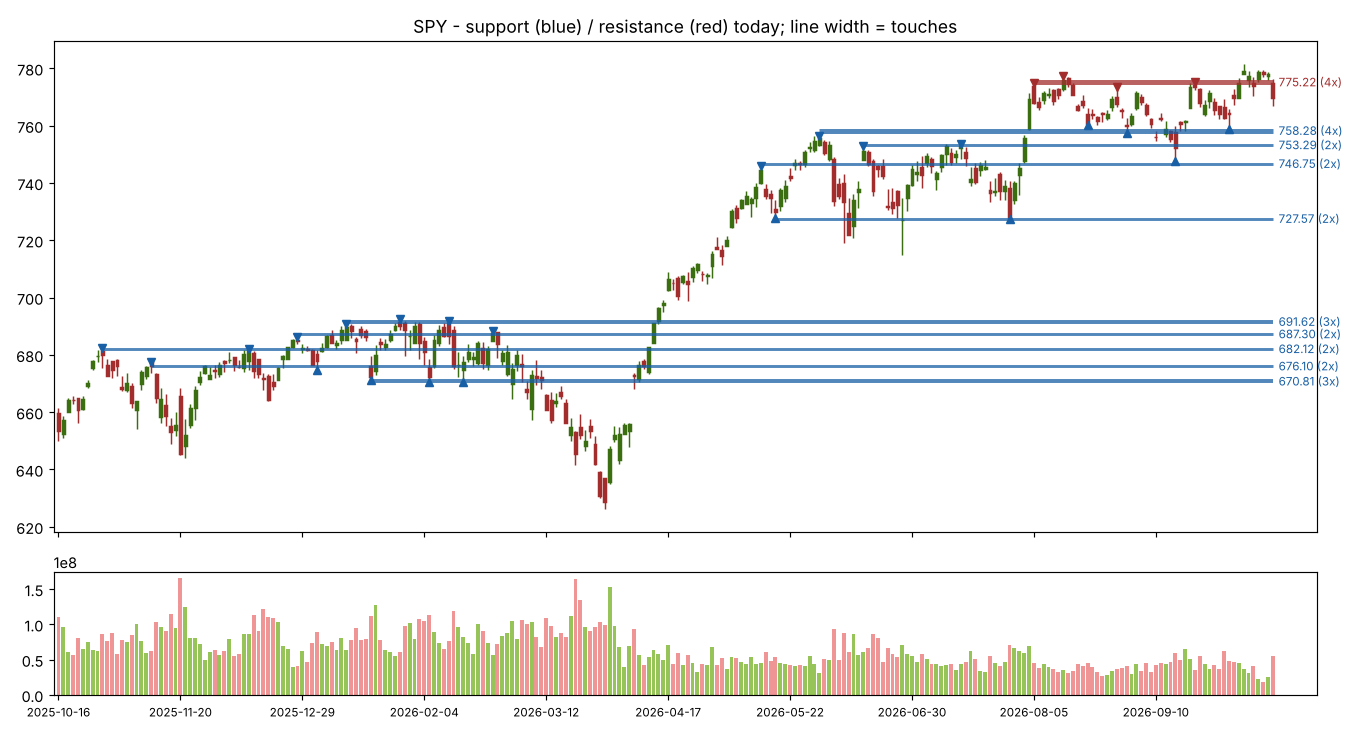
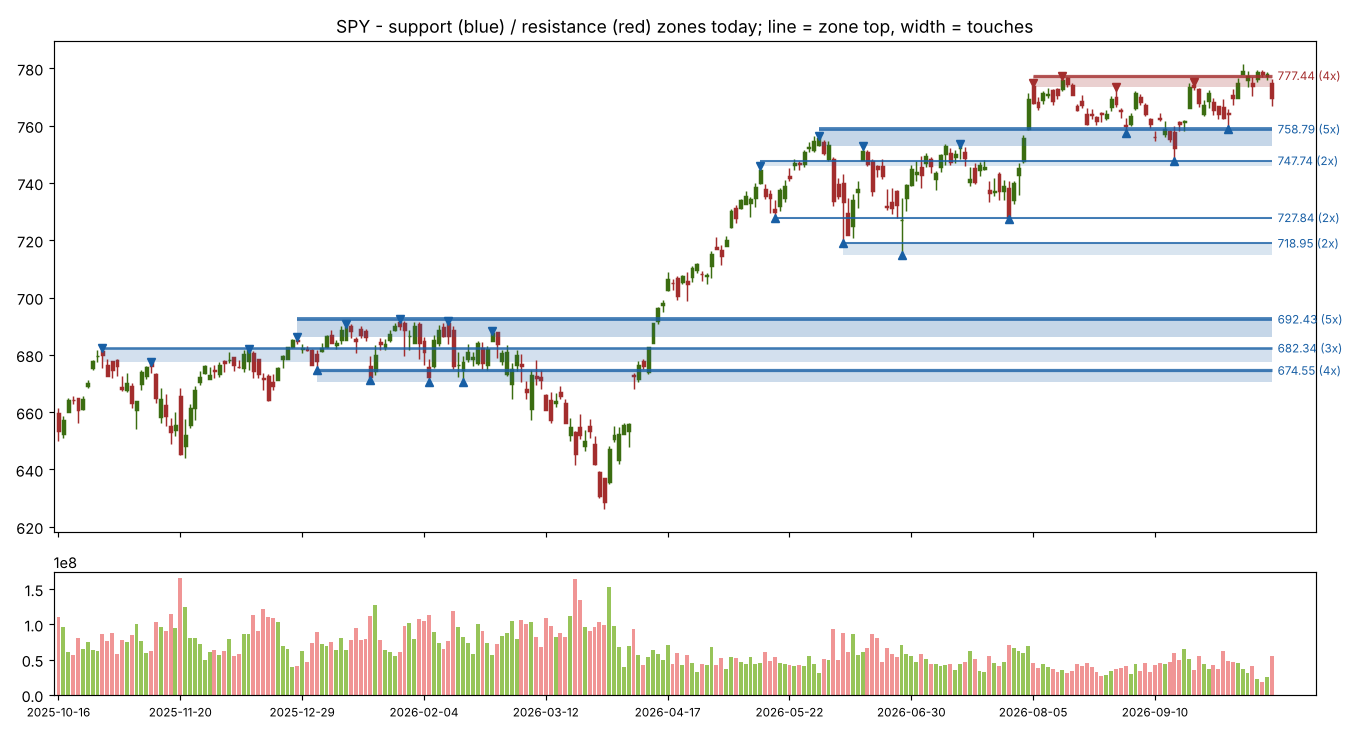
Refine S/R breakouts: bounded-width zones, real resistance (10 closes below, last touch a high), one signal per zone
Claude-Session: https://claude.ai/code/session_0198pJXsk3fxhgSngvdqQB7w

diff --git a/sr_levels.py b/sr_levels.py
@@ -22,7 +22,8 @@ import pandas as pd
 import backtest as bt
 
 PIVOT_N = 5          # נרות מכל צד לנקודת מפנה
-TOL_ATR = 0.5        # מרחק מקסימלי (ביחידות ATR) בין נקודות באותה רמה
+TOL_ATR = 1.0        # מרחק מקסימלי (ביחידות ATR) בין נקודות באותו אזור (רמות קרובות מתמזגות)
+BELOW_DAYS = 10      # התנגדות אמיתית: המחיר נסגר מתחת לראש האזור לפחות כך הרבה ימים ברציפות לפני הפריצה
 LOOKBACK = 250       # כמה ימים אחורה מחפשים נקודות מפנה (~שנה)
 MIN_TOUCHES = 2      # מינימום נגיעות להתנגדות "אמיתית"
 MARGIN_ATR = 0.1     # כמה מעל הרמה הסגירה צריכה להיות
@@ -42,16 +43,23 @@ def pivots(df, n=PIVOT_N):
 
 
 def cluster(points, tol):
-    """קיבוץ נקודות לפי מחיר: נקודה מצטרפת לקבוצה אם היא עד tol מהממוצע שלה."""
+    """קיבוץ נקודות לפי מחיר: נקודה מצטרפת לאזור אם רוחב האזור כולו (מהנקודה הנמוכה) נשאר עד tol.
+    (בלי זה האזור "זוחל" - כל נקודה קרובה לממוצע אבל האזור מתרחב בלי גבול.)"""
     levels = []
     for i, p, kind in sorted(points, key=lambda x: x[1]):
-        if levels and abs(p - levels[-1]["price"]) <= tol:
+        if levels and p - min(q[1] for q in levels[-1]["pts"]) <= tol:
             lv = levels[-1]
             lv["pts"].append((i, p, kind))
             lv["price"] = float(np.mean([q[1] for q in lv["pts"]]))
         else:
             levels.append(dict(price=p, pts=[(i, p, kind)]))
     for lv in levels:
+        lv["top"] = max(q[1] for q in lv["pts"])            # האזור: מהנקודה הנמוכה לגבוהה
+        lv["bottom"] = min(q[1] for q in lv["pts"])
+        lv["id"] = min(q[0] for q in lv["pts"])            # זהות יציבה: נקודת המפנה הראשונה
+        last = max(lv["pts"], key=lambda q: q[0])
+        lv["last_kind"] = last[2]
+        lv["last_high"] = max([q[0] for q in lv["pts"] if q[2] == "H"], default=-1)
         lv["touches"] = len(lv["pts"])
         lv["first"] = min(q[0] for q in lv["pts"])
         lv["last"] = max(q[0] for q in lv["pts"])
@@ -77,22 +85,38 @@ class Levels:
         return cluster(self.pts[a:b], self.tol_atr * self.atr[t])
 
 
-def find_breakouts(df, start=None, end=None, min_touches=MIN_TOUCHES, margin_atr=MARGIN_ATR, lv=None):
-    """פריצות: סגירה ביום t מעל רמת התנגדות (נגיעות >= min_touches) כשהסגירה ב-t-1 הייתה מתחת לה."""
+def find_breakouts(df, start=None, end=None, min_touches=MIN_TOUCHES, margin_atr=MARGIN_ATR, lv=None,
+                   below_days=BELOW_DAYS):
+    """פריצה ביום t מעל אזור התנגדות:
+      * לאזור לפחות min_touches נגיעות, והנגיעה האחרונה בו היא שיא (נגיעה מלמטה);
+      * המחיר נסגר מתחת לראש האזור below_days ימים ברציפות לפני t;
+      * הסגירה ב-t מעל ראש האזור + margin_atr*ATR;
+      * כל אזור נותן איתות אחד - שוב רק אם נוצר בו שיא מפנה חדש אחרי הפריצה הקודמת."""
     lv = lv or Levels(df)
     c = df["Close"].values
     lo = max(bt.DAILY_WARMUP, df.index.searchsorted(pd.Timestamp(start)) if start else 0)
     hi = df.index.searchsorted(pd.Timestamp(end), side="right") if end else len(df)
+    lo = max(lo, below_days + 1)
+    broken = {}                                             # id אזור -> יום הפריצה האחרונה
     out = []
-    for t in range(max(lo, 1), hi):
+    for t in range(lo, hi):
         levels = lv.asof(t)
         thr = margin_atr * lv.atr[t]
-        broken = [L for L in levels if L["touches"] >= min_touches
-                  and c[t - 1] <= L["price"] and c[t] > L["price"] + thr]
-        if broken:
-            L = max(broken, key=lambda x: x["price"])          # הרמה הגבוהה ביותר שנפרצה היום
-            above = [x for x in levels if x["price"] > c[t]]
-            nxt = min(above, key=lambda x: x["price"]) if above else None
+        cands = []
+        for L in levels:
+            if L["touches"] < min_touches or L["last_kind"] != "H":
+                continue
+            if not (c[t] > L["top"] + thr and (c[t - below_days:t] < L["top"]).all()):
+                continue
+            if L["id"] in broken and L["last_high"] <= broken[L["id"]]:
+                continue
+            cands.append(L)
+        if cands:
+            L = max(cands, key=lambda x: x["top"])
+            for x in cands:
+                broken[x["id"]] = t
+            above = [x for x in levels if x["bottom"] > c[t]]
+            nxt = min(above, key=lambda x: x["bottom"]) if above else None
             out.append(dict(t=t, level=L, next_resistance=nxt, levels=levels))
     return out
 
@@ -117,10 +141,11 @@ def plot_levels(df, t, path, title="", lv=None, bars=250, after=0, breakout=None
     for L in levels:
         if L["touches"] < MIN_TOUCHES:
             continue
-        col = "#A32D2D" if L["price"] > close_t else "#185FA5"
+        col = "#A32D2D" if L["top"] > close_t else "#185FA5"
         x0 = max(L["first"] - a, 0)
-        ax.hlines(L["price"], x0, len(d) - 1, color=col, lw=0.6 + 0.7 * min(L["touches"], 6), alpha=0.75)
-        ax.text(len(d) - 0.5, L["price"], f" {L['price']:.2f} ({L['touches']}x)", color=col,
+        ax.fill_between([x0, len(d) - 1], L["bottom"], L["top"], color=col, alpha=0.10 + 0.03 * min(L["touches"], 6), lw=0)
+        ax.hlines(L["top"], x0, len(d) - 1, color=col, lw=0.6 + 0.4 * min(L["touches"], 6), alpha=0.8)
+        ax.text(len(d) - 0.5, L["top"], f" {L['top']:.2f} ({L['touches']}x)", color=col,
                 fontsize=8, va="center")
         for i, p, k in L["pts"]:
             if i >= a:
@@ -131,8 +156,8 @@ def plot_levels(df, t, path, title="", lv=None, bars=250, after=0, breakout=None
         ax.annotate("BREAKOUT", (t - a, df["Close"].values[t]), xytext=(0, 30), textcoords="offset points",
                     ha="center", color="#3B6D11", fontweight="bold",
                     arrowprops=dict(arrowstyle="->", color="#3B6D11"))
-    ax.set_title(title or f"Support (blue) / resistance (red) as known on {df.index[t].date()}  -  "
-                          f"line width = number of touches")
+    ax.set_title(title or f"Support (blue) / resistance (red) zones as known on {df.index[t].date()}  -  "
+                          f"line = zone top, width = number of touches")
     ax.set_xlim(-1, len(d) + 8)
     step = max(1, len(d) // 10)
     axv.set_xticks(range(0, len(d), step))
